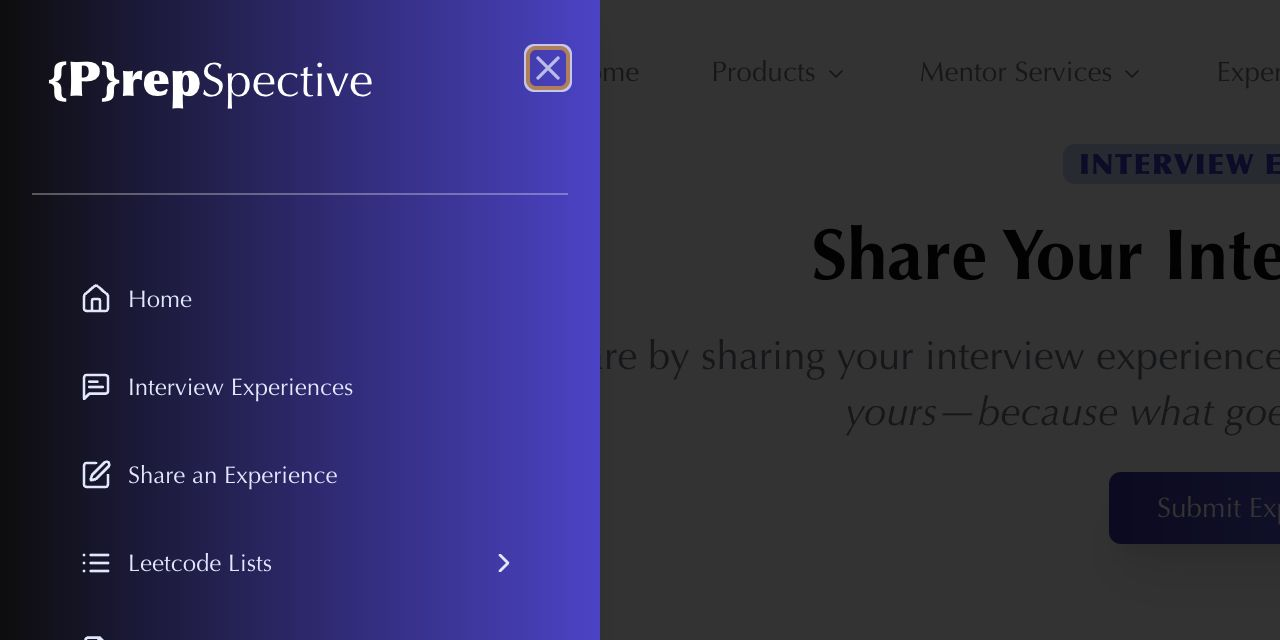
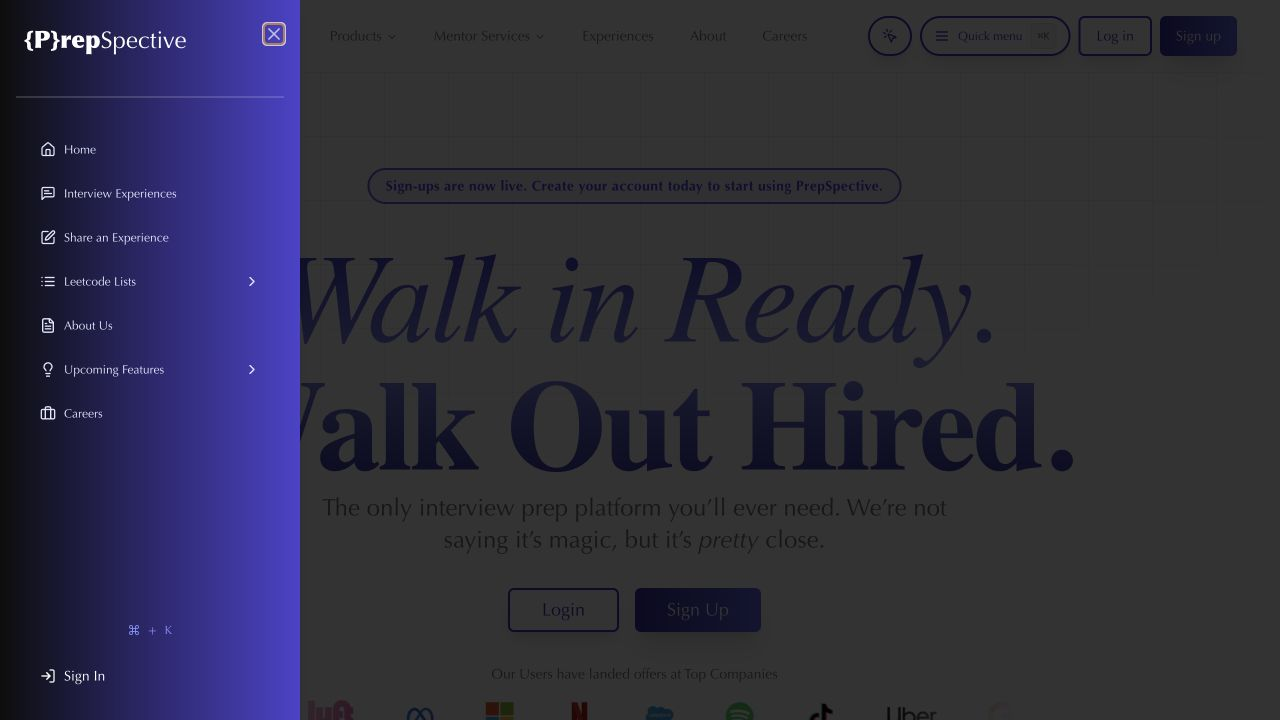
Polish portfolio README

diff --git a/README.md b/README.md
@@ -1,49 +1,99 @@
 # PrepSpective
 
-An interview preparation platform built around real candidate experiences.
+PrepSpective is an interview preparation platform built around focused practice, measurable progress, and real candidate experiences.
 
-## Highlights
+[View the live product](https://prepspective.vercel.app)
 
-- Browse real interview experiences.
-- Search by company.
-- Filter by level and interview type.
-- Share complete interview journeys.
-- Record questions, rounds, ratings, and outcomes.
-- Open quick navigation with `⌘ K` or `Ctrl K`.
-- Practice interviews and get structured feedback.
-- Follow curated LeetCode lists.
-- Track wins with a brag sheet.
-- Stay focused with a built-in Pomodoro timer.
+![PrepSpective landing page](public/screenshots/home.jpg)
 
-## Interview Explorer
+## Product Overview
 
-Search by company. Combine chips to narrow the results.
+PrepSpective brings interview research, technical practice, diagnostics, and productivity tools into one workspace.
 
-![PrepSpective interview experience explorer](public/screenshots/interview-experiences.jpg)
+The platform supports the full preparation cycle: learn from real interviews, identify weak areas, practice targeted questions, and maintain a consistent study routine.
 
-## Share Your Journey
+## Interview Experience Explorer
 
-Record the role, rounds, questions, ratings, and outcome.
+Candidates can browse community-submitted interview experiences and filter by company, level, outcome, question type, and interview round. Each card includes the company logo, role, date, and relevant metadata.
 
-![PrepSpective interview experience submission form](public/screenshots/share-experience.jpg)
+Selecting a card opens the complete experience without leaving the page. The detail panel includes ratings, interview rounds, questions, coding links, and the final outcome.
 
-## Quick Navigation
+![Interview explorer with the first experience selected](public/screenshots/interview-experiences.jpg)
 
-Press `⌘ K` or `Ctrl K` from any page.
+## Interview Experience Submission
 
-![PrepSpective command K quick navigation](public/screenshots/quick-navigation.jpg)
+The submission workflow captures structured information that is useful to future candidates. Contributors can record the role, interview date, level, offer outcome, overall experience, questions, ratings, and individual rounds.
+
+![Interview experience submission workflow](public/screenshots/share-experience.jpg)
+
+## LeetCode Study Lists
+
+Curated Blind 75 and Blind 150 lists provide a focused technical interview roadmap. The workspace includes search, difficulty filtering, completion tracking, spaced-repetition reminders, direct problem links, and video solutions.
+
+![LeetCode study list and progress tracker](public/screenshots/leetcode-lists.jpg)
+
+## Technical Skill Scan
+
+Skill Scan runs a structured data-structures diagnostic and summarizes performance by topic. The results view combines a radar chart with topic-level recommendations so candidates can prioritize the areas that need the most work.
+
+![Skill Scan diagnostic results](public/screenshots/skill-scan-results.jpg)
+
+## AI Interview Practice
+
+The interview simulator supports technical, behavioral, data analytics, and product management practice. It includes browser and microphone checks, session statistics, response guidance, interview history, and structured feedback.
+
+![AI interview mode selection and preparation workspace](public/screenshots/ai-interview.jpg)
+
+## Focus Workspace
+
+The built-in focus workspace combines a Pomodoro timer, task planning, music, white noise, and ambient effects. It keeps preparation sessions organized without requiring a separate productivity tool.
+
+![Pomodoro timer, audio controls, and task workspace](public/screenshots/focus-timer.jpg)
+
+## Keyboard Navigation
+
+The global quick menu opens with `Command K` on macOS or `Ctrl K` on Windows and Linux. It provides direct access to interview experiences, submissions, study lists, account actions, and supporting pages.
+
+![Global keyboard navigation menu](public/screenshots/quick-navigation.jpg)
+
+## Engineering Highlights
+
+- Responsive application architecture with Next.js, React, and TypeScript.
+- Reusable component system built with Tailwind CSS and Radix UI.
+- Authentication and account management through Clerk.
+- Relational interview data modeled with Drizzle ORM and Turso.
+- Server-side API routes for interviews, questions, ratings, rounds, progress, and feedback.
+- Multi-dimensional client-side filtering with combinable chips.
+- Speech-recognition workflow for recorded interview responses.
+- Data visualization for diagnostic results and progress reporting.
+- Keyboard-accessible navigation and responsive mobile layouts.
+
+## Technology
+
+| Area | Technologies |
+| --- | --- |
+| Application | Next.js, React, TypeScript |
+| Interface | Tailwind CSS, Radix UI, Framer Motion, Lucide |
+| Data | Turso, libSQL, Drizzle ORM |
+| Authentication | Clerk |
+| Interview feedback | Model-backed feedback service, Web Speech API |
+| Visualization | Recharts |
+| Deployment | Vercel |
 
 ## Run Locally
 
+Install dependencies:
+
 ```bash
 npm install
+```
+
+Create an `.env` file with the required Clerk, Turso, and interview feedback credentials.
+
+Start the development server:
+
+```bash
 npm run dev
 ```
 
-Add the required Clerk, Turso, and OpenAI environment variables.
-
 Open [http://localhost:3000](http://localhost:3000).
-
-## Stack
-
-Next.js. React. TypeScript. Tailwind CSS. Clerk. Drizzle. Turso.